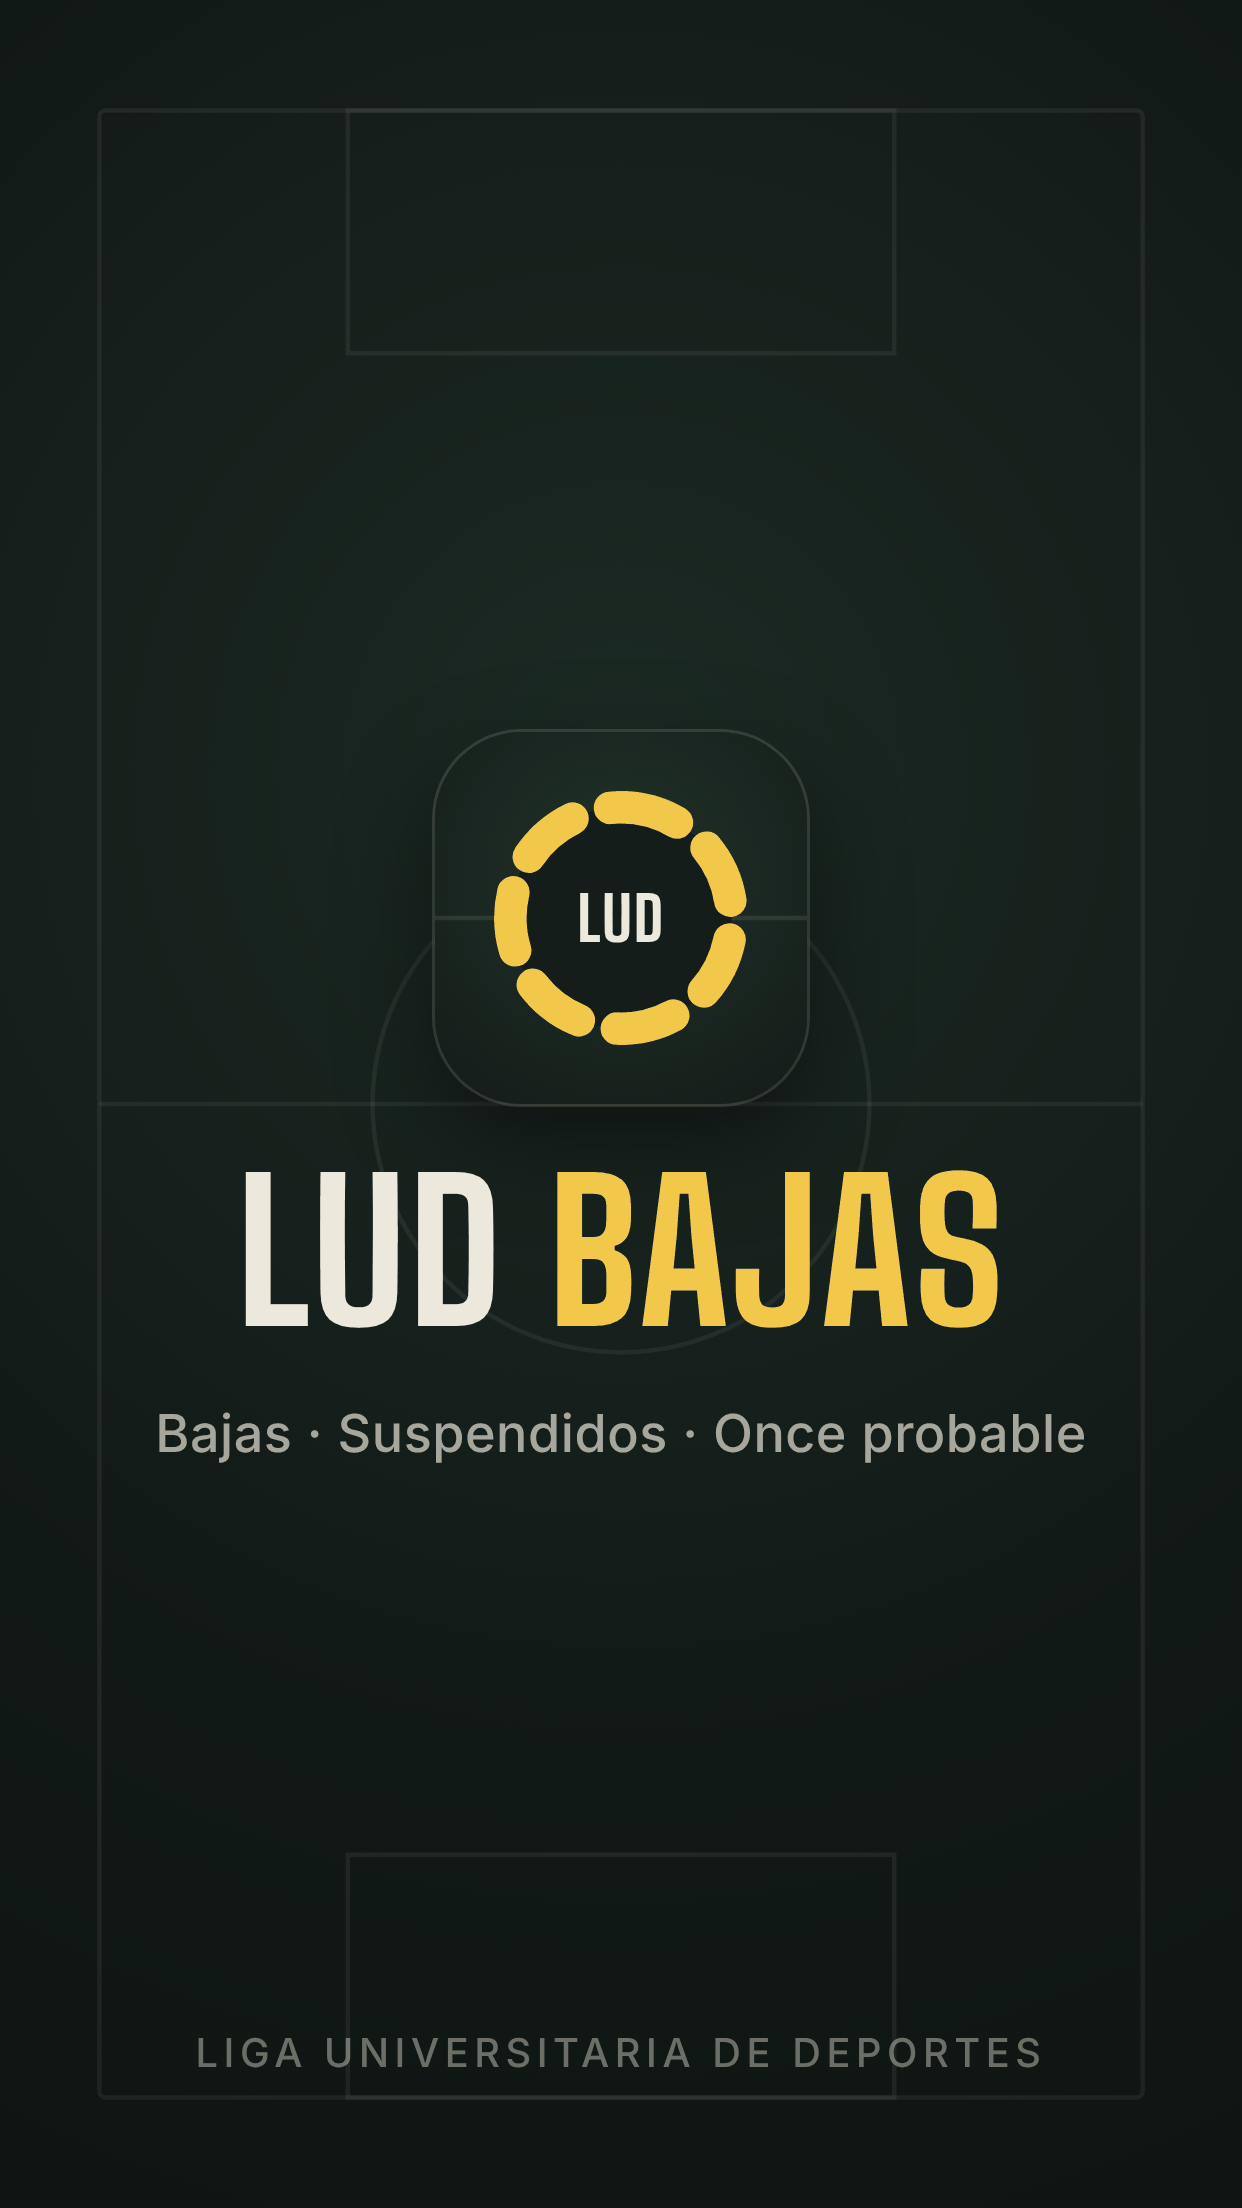
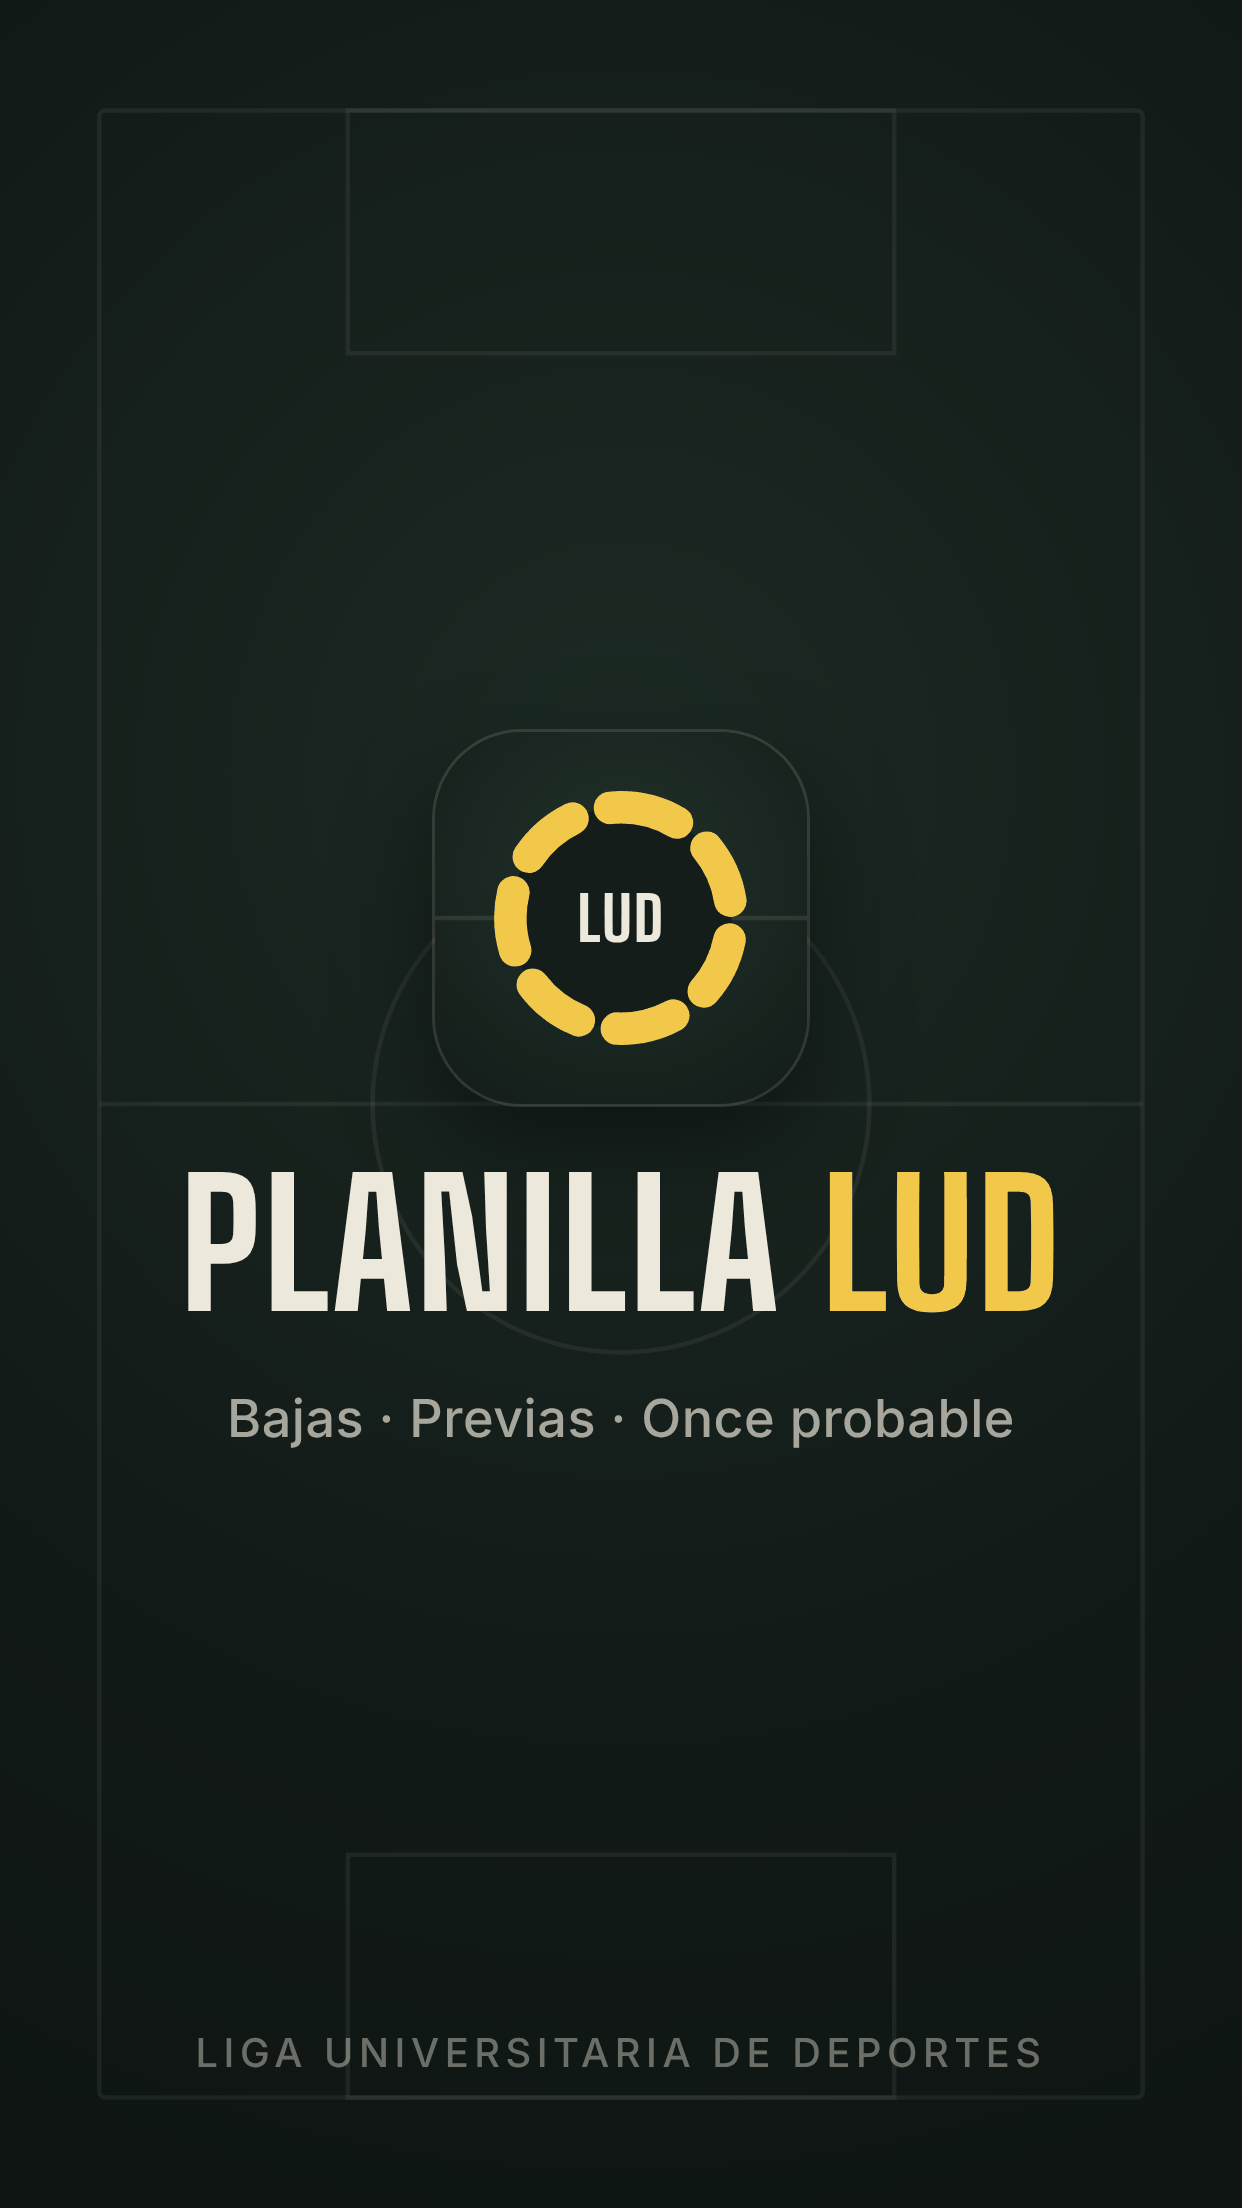
Nuevo nombre: Planilla LUD
Nombre, imagen para compartir (con el diseño actual) y pantalla de arranque de la app.
La dirección pasa a petiklein.github.io/planilla-lud.

Claude-Session: https://claude.ai/code/session_014hetuba92P8GxPgQR5Fj5r

Changed region(s): [[0.1224, 0.5312, 0.8873, 0.6562]]

diff --git a/index.html b/index.html
@@ -3,28 +3,28 @@
 <head>
 <meta charset="utf-8">
 <meta name="viewport" content="width=device-width, initial-scale=1, viewport-fit=cover">
-<title>LUD Bajas · Minutos, bajas y previas de la Liga Universitaria</title>
+<title>Planilla LUD · Bajas, previas y once probable de la Liga Universitaria</title>
 <meta name="description" content="Posibles bajas, suspendidos, once probable y previas de cada partido de la Liga Universitaria de Deportes (Mayores, Sub 20, Reserva, Pre Senior, Más 40, Sub 18 y Sub 16), sacados de las planillas oficiales.">
 <meta name="theme-color" content="#121a17">
-<link rel="canonical" href="https://petiklein.github.io/lud-bajas/">
+<link rel="canonical" href="https://petiklein.github.io/planilla-lud/">
 <meta property="og:type" content="website">
-<meta property="og:site_name" content="LUD Bajas">
-<meta property="og:title" content="LUD Bajas · Bajas, suspendidos y previas de la LUD">
+<meta property="og:site_name" content="Planilla LUD">
+<meta property="og:title" content="Planilla LUD · Bajas, previas y once probable de la LUD">
 <meta property="og:description" content="Antes de cada fecha: quién falta, quién está suspendido y el once probable de cada equipo, en todas las categorías.">
-<meta property="og:url" content="https://petiklein.github.io/lud-bajas/">
-<meta property="og:image" content="https://petiklein.github.io/lud-bajas/og.png">
+<meta property="og:url" content="https://petiklein.github.io/planilla-lud/">
+<meta property="og:image" content="https://petiklein.github.io/planilla-lud/og.png">
 <meta property="og:image:width" content="1200">
 <meta property="og:image:height" content="630">
 <meta property="og:locale" content="es_UY">
 <meta name="twitter:card" content="summary_large_image">
-<meta name="twitter:image" content="https://petiklein.github.io/lud-bajas/og.png">
+<meta name="twitter:image" content="https://petiklein.github.io/planilla-lud/og.png">
 <link rel="icon" href="favicon.svg" type="image/svg+xml">
 <link rel="apple-touch-icon" href="apple-touch-icon.png">
 <!-- App en el celu ("Agregar a inicio"): ícono, nombre y pantalla de arranque (app/, la genera herramientas/portada.py). -->
 <link rel="manifest" href="manifest.webmanifest">
 <meta name="apple-mobile-web-app-capable" content="yes">
 <meta name="mobile-web-app-capable" content="yes">
-<meta name="apple-mobile-web-app-title" content="LUD Bajas">
+<meta name="apple-mobile-web-app-title" content="Planilla LUD">
 <meta name="apple-mobile-web-app-status-bar-style" content="black-translucent">
 <link rel="apple-touch-startup-image" media="(device-width: 440px) and (device-height: 956px) and (-webkit-device-pixel-ratio: 3) and (orientation: portrait)" href="app/arranque-1320x2868.png">
 <link rel="apple-touch-startup-image" media="(device-width: 402px) and (device-height: 874px) and (-webkit-device-pixel-ratio: 3) and (orientation: portrait)" href="app/arranque-1206x2622.png">
@@ -43,7 +43,7 @@
 <link rel="stylesheet" href="https://fonts.googleapis.com/css2?family=Big+Shoulders+Display:wght@800;900&family=IBM+Plex+Mono:wght@500&family=Instrument+Sans:wght@400;500;600&display=swap">
 <style>
 /* =====================================================================
-   LUD Bajas · sistema de diseño "pizarra"
+   Planilla LUD · sistema de diseño "pizarra"
    El mismo mundo que la página de presentación: vestuario de noche,
    pizarra táctica, tiza y un solo amarillo de marcador como acento.
    Títulos en Big Shoulders Display, texto en Instrument Sans y datos
@@ -494,9 +494,9 @@ details.more summary{cursor:pointer;font-weight:600;padding:12px 16px}
 </svg>
 <header class="top" id="top">
   <div class="wrap">
-    <a class="logo" href="#/" aria-label="LUD Bajas, inicio" id="logo">
+    <a class="logo" href="#/" aria-label="Planilla LUD, inicio" id="logo">
       <svg viewBox="0 0 64 64" aria-hidden="true"><rect width="64" height="64" rx="14" fill="#1a2621"/><rect x=".75" y=".75" width="62.5" height="62.5" rx="13.5" fill="none" stroke="#ece8dc" stroke-opacity=".18" stroke-width="1.5"/><circle cx="32" cy="32" r="17" fill="none" stroke="#f2c84b" stroke-width="5" stroke-dasharray="9 6" stroke-linecap="round"/></svg>
-      <b>LUD Bajas</b>
+      <b>Planilla LUD</b>
     </a>
     <button class="divbtn" id="divbtn" aria-haspopup="dialog"><span id="divnombre">Divisional</span><svg><use href="#i-chev"/></svg></button>
     <span class="spacer"></span>
@@ -512,7 +512,7 @@ details.more summary{cursor:pointer;font-weight:600;padding:12px 16px}
 <footer class="pie" id="pie">
   <div class="wrap">
     <div>
-      <a class="logo" href="#/"><svg viewBox="0 0 64 64" aria-hidden="true"><rect width="64" height="64" rx="14" fill="#1a2621"/><rect x=".75" y=".75" width="62.5" height="62.5" rx="13.5" fill="none" stroke="#ece8dc" stroke-opacity=".18" stroke-width="1.5"/><circle cx="32" cy="32" r="17" fill="none" stroke="#f2c84b" stroke-width="5" stroke-dasharray="9 6" stroke-linecap="round"/></svg><b>LUD Bajas</b></a>
+      <a class="logo" href="#/"><svg viewBox="0 0 64 64" aria-hidden="true"><rect width="64" height="64" rx="14" fill="#1a2621"/><rect x=".75" y=".75" width="62.5" height="62.5" rx="13.5" fill="none" stroke="#ece8dc" stroke-opacity=".18" stroke-width="1.5"/><circle cx="32" cy="32" r="17" fill="none" stroke="#f2c84b" stroke-width="5" stroke-dasharray="9 6" stroke-linecap="round"/></svg><b>Planilla LUD</b></a>
       <p>Página no oficial, hecha por hinchas, con los datos públicos de las planillas y de Fallos y Penas de la Liga Universitaria de Deportes.</p>
       <p id="actualizado"></p>
     </div>
@@ -520,7 +520,7 @@ details.more summary{cursor:pointer;font-weight:600;padding:12px 16px}
     <div><h4>Fuentes</h4><ul>
       <li><a href="https://ligauniversitaria.org.uy" target="_blank" rel="noopener">Liga Universitaria de Deportes</a></li>
       <li><a href="https://ligauniversitaria.org.uy/fallos-y-penas-2/" target="_blank" rel="noopener">Fallos y Penas</a></li>
-      <li><a href="https://github.com/PetiKlein/lud-bajas" target="_blank" rel="noopener">Código en GitHub</a></li>
+      <li><a href="https://github.com/PetiKlein/planilla-lud" target="_blank" rel="noopener">Código en GitHub</a></li>
     </ul></div>
   </div>
   <div class="wrap legal">Las bajas son pistas sacadas de las planillas, no partes médicos. Los minutos de los expulsados pueden quedar de más: la Liga no anota el minuto de la expulsión.</div>
@@ -657,7 +657,7 @@ function chrome(cat, tab) {
   $('#pie-links').innerHTML = SECCIONES.slice(0, 6).map(([id, n]) => `<li><a href="${link(div, id)}">${n}</a></li>`).join('');
   $('#btn-mas').onclick = () => abrir('sheet-mas');
   $('#divbtn').onclick = () => { armarDivisionales(mi ? null : cat, seccion === 'inicio' || mi ? 'inicio' : seccion); abrir('sheet-div'); };
-  document.title = mi ? 'Mi equipo · LUD Bajas' : `${SECCIONES.find(s => s[0] === seccion)?.[1] || 'LUD Bajas'} · ${DIVS[cat].nombre} · LUD Bajas`;
+  document.title = mi ? 'Mi equipo · Planilla LUD' : `${SECCIONES.find(s => s[0] === seccion)?.[1] || 'Planilla LUD'} · ${DIVS[cat].nombre} · Planilla LUD`;
   $('#dnav2 [aria-current]')?.scrollIntoView({ block: 'nearest', inline: 'center' });
 }
 // Panel para elegir categoría y divisional.

diff --git a/herramientas/portada.py b/herramientas/portada.py
@@ -41,16 +41,35 @@ def splash(w, h):
   </svg>
   <div style="position:absolute;left:0;right:0;top:{h*0.5 - t*0.30}px;display:flex;flex-direction:column;align-items:center;gap:{t*0.05}px">
     <div style="width:{t*0.30}px;height:{t*0.30}px;border-radius:{t*0.07}px;overflow:hidden;box-shadow:0 0 0 1px rgba(236,232,220,.14),0 {t*0.03}px {t*0.08}px rgba(0,0,0,.45)">{icono(int(t*0.30))}</div>
-    <div style="font-family:BS;font-size:{t*0.155}px;line-height:.9;letter-spacing:.01em;text-transform:uppercase">LUD <span style="color:#f2c84b">Bajas</span></div>
-    <div style="font-size:{t*0.042}px;color:rgba(236,232,220,.68);letter-spacing:.01em">Bajas · Suspendidos · Once probable</div>
+    <div style="font-family:BS;font-size:{t*0.14}px;line-height:.9;letter-spacing:.01em;text-transform:uppercase">Planilla <span style="color:#f2c84b">LUD</span></div>
+    <div style="font-size:{t*0.042}px;color:rgba(236,232,220,.68);letter-spacing:.01em">Bajas · Previas · Once probable</div>
   </div>
   <div style="position:absolute;left:0;right:0;bottom:{h*0.06}px;text-align:center;font-size:{t*0.032}px;color:rgba(236,232,220,.42);letter-spacing:.14em;text-transform:uppercase">Liga Universitaria de Deportes</div>
 </div>"""
+ESCUDOS=['elf','old-christians','nacional-u','carrasco-polo','seminario','old-boys']
+def og():
+    esc=''.join(f'<img src="{d64(os.path.join(OUT,"..","escudos",e+".png"),"image/png")}" style="height:64px;width:64px;object-fit:contain;background:rgba(236,232,220,.06);border:1px solid rgba(236,232,220,.12);border-radius:14px;padding:8px">' for e in ESCUDOS if os.path.exists(os.path.join(OUT,"..","escudos",e+".png")))
+    cats=''.join(f'<span style="border:1px solid rgba(236,232,220,.18);border-radius:999px;padding:8px 16px">{c}</span>' for c in ['Mayores','Sub 20','Reserva','Pre Senior','Más 40','Sub 18','Sub 16'])
+    return f'''<div style="width:1200px;height:630px;position:relative;overflow:hidden;font-family:IN;color:#ece8dc;background:radial-gradient(90% 120% at 75% 30%,#1f2e27 0%,#121a17 55%,#0e1512 100%)">
+  <svg style="position:absolute;inset:0" width="1200" height="630"><g fill="none" stroke="#ece8dc" stroke-opacity=".07" stroke-width="2">
+    <rect x="40" y="40" width="1120" height="550" rx="3"/><line x1="600" y1="40" x2="600" y2="590"/><circle cx="600" cy="315" r="95"/>
+    <rect x="40" y="185" width="120" height="260"/><rect x="1040" y="185" width="120" height="260"/></g></svg>
+  <div style="position:absolute;left:84px;top:78px;display:flex;align-items:center;gap:22px">
+    <div style="width:96px;height:96px;border-radius:22px;overflow:hidden;box-shadow:0 0 0 1px rgba(236,232,220,.16)">{icono(96)}</div>
+    <div style="font-family:BS;font-size:92px;line-height:.9;text-transform:uppercase;letter-spacing:.01em">Planilla <span style="color:#f2c84b">LUD</span></div>
+  </div>
+  <div style="position:absolute;left:84px;top:232px;font-size:17px;letter-spacing:.2em;text-transform:uppercase;color:#f2c84b">Liga Universitaria de Deportes</div>
+  <div style="position:absolute;left:84px;top:268px;width:1000px;font-family:BS;font-size:66px;line-height:1;text-transform:uppercase">Bajas, previas y once probable<br>de cada partido</div>
+  <div style="position:absolute;left:84px;bottom:76px;display:flex;flex-wrap:wrap;gap:10px;width:640px;font-size:19px;color:rgba(236,232,220,.85)">{cats}</div>
+  <div style="position:absolute;right:84px;bottom:76px;display:flex;gap:10px">{esc}</div>
+</div>'''
+
 # Pantallas de iPhone (puntos CSS, escala)
 IPHONES=[(440,956,3),(402,874,3),(430,932,3),(393,852,3),(428,926,3),(390,844,3),(375,812,3),(414,896,3),(414,896,2),(414,736,3),(375,667,2),(320,568,2)]
 with sync_playwright() as p:
     b=p.chromium.launch()
     pg=b.new_page()
+    render(pg,1200,630,og(),OUT + '../og.png')
     for px in (192,512): render(pg,px,px,icono(px),OUT+f'icono-{px}.png')
     render(pg,512,512,icono(512,escala=0.78),OUT+'icono-maskable-512.png')
     render(pg,180,180,icono(180),OUT + '../apple-touch-icon.png')

diff --git a/README.md b/README.md
@@ -1,4 +1,4 @@
-# LUD Bajas
+# Planilla LUD
 
 Minutos jugados y posibles bajas de la Liga Universitaria de Deportes (Uruguay), sacados de las
 planillas oficiales. Sigue Mayores (A a G), Sub 20 (A a C), Reserva (A a D), Pre Senior (A a E),
@@ -8,7 +8,7 @@ bloque, así cada equipo conserva su historia de las series, y la web muestra un
 Plata, Bronce, Competencia, Confraternidad, Amistad) con sus equipos y todos sus partidos de la temporada
 (`VISTAS` en `categorias.mjs`, `partirEnCopas()` en `analizar.mjs`).
 
-Página: https://petiklein.github.io/lud-bajas/
+Página: https://petiklein.github.io/planilla-lud/
 
 ## Diseño
 
